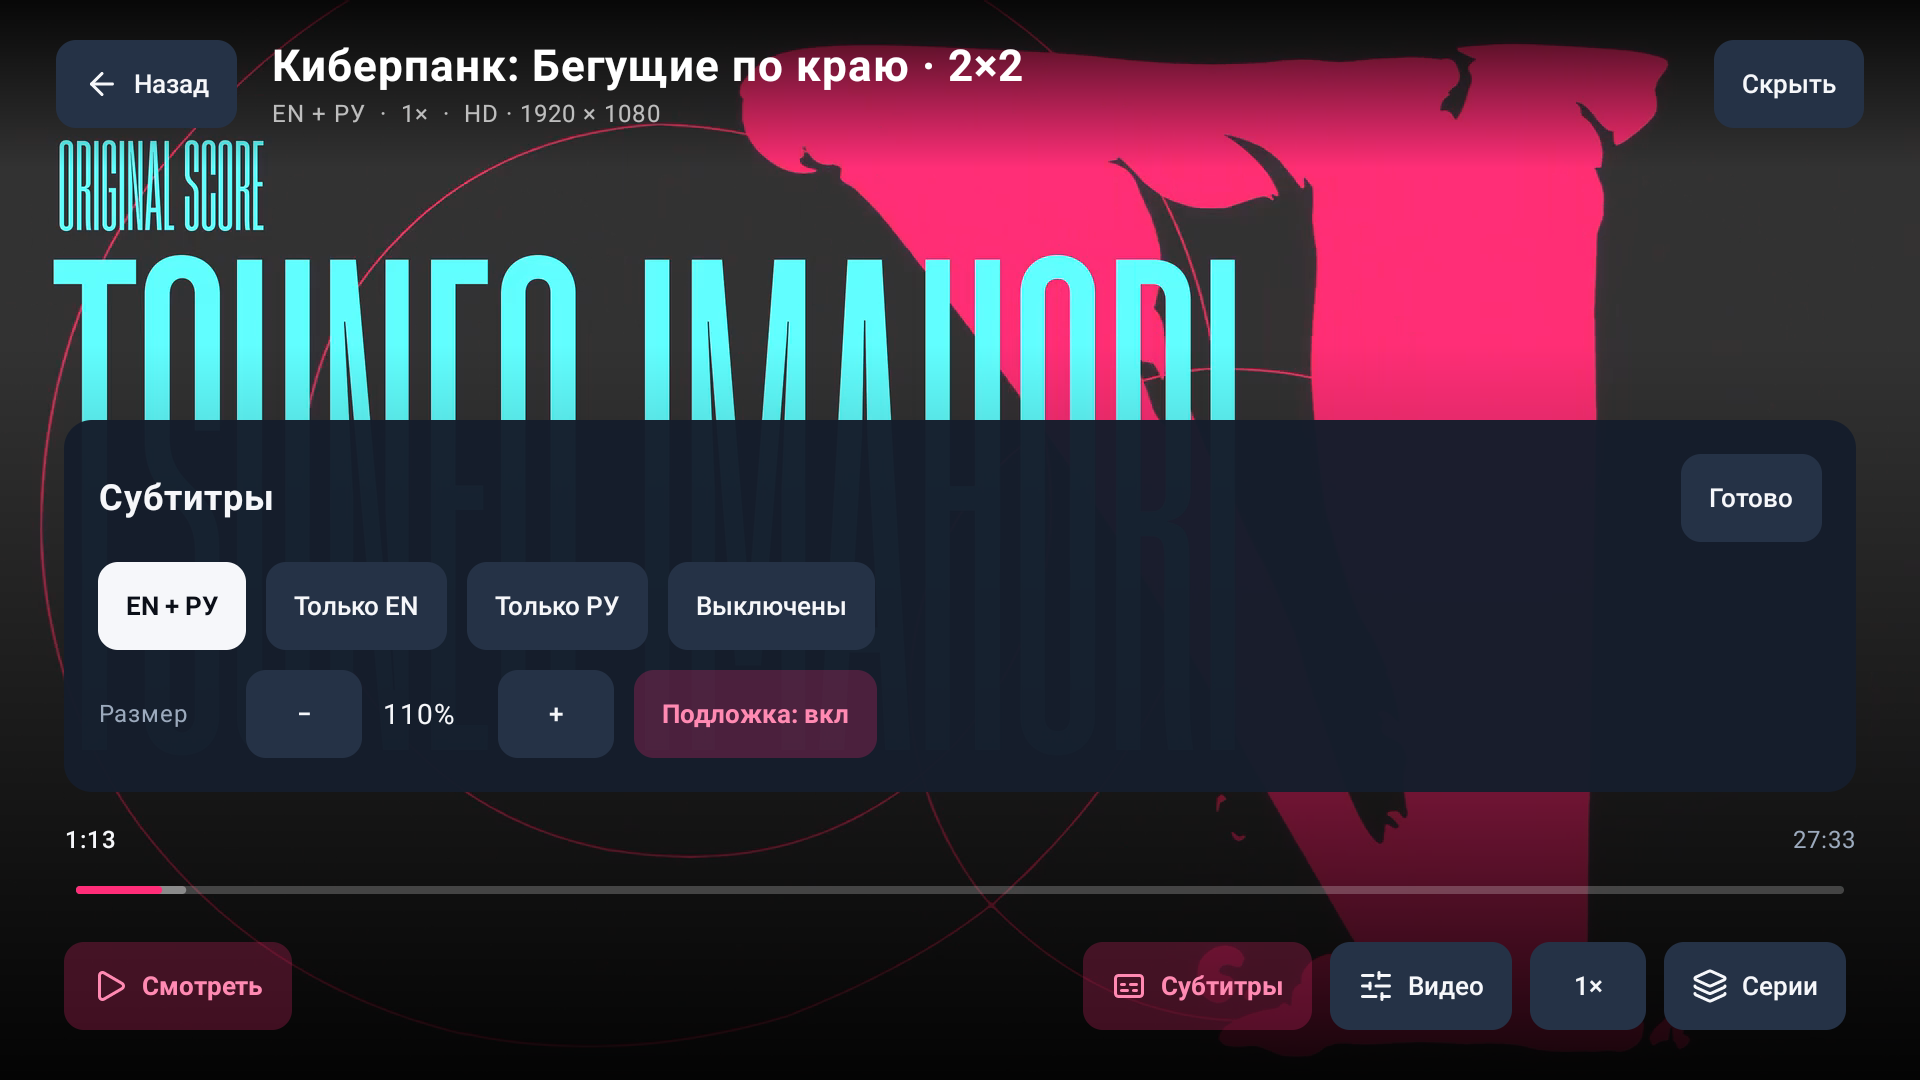
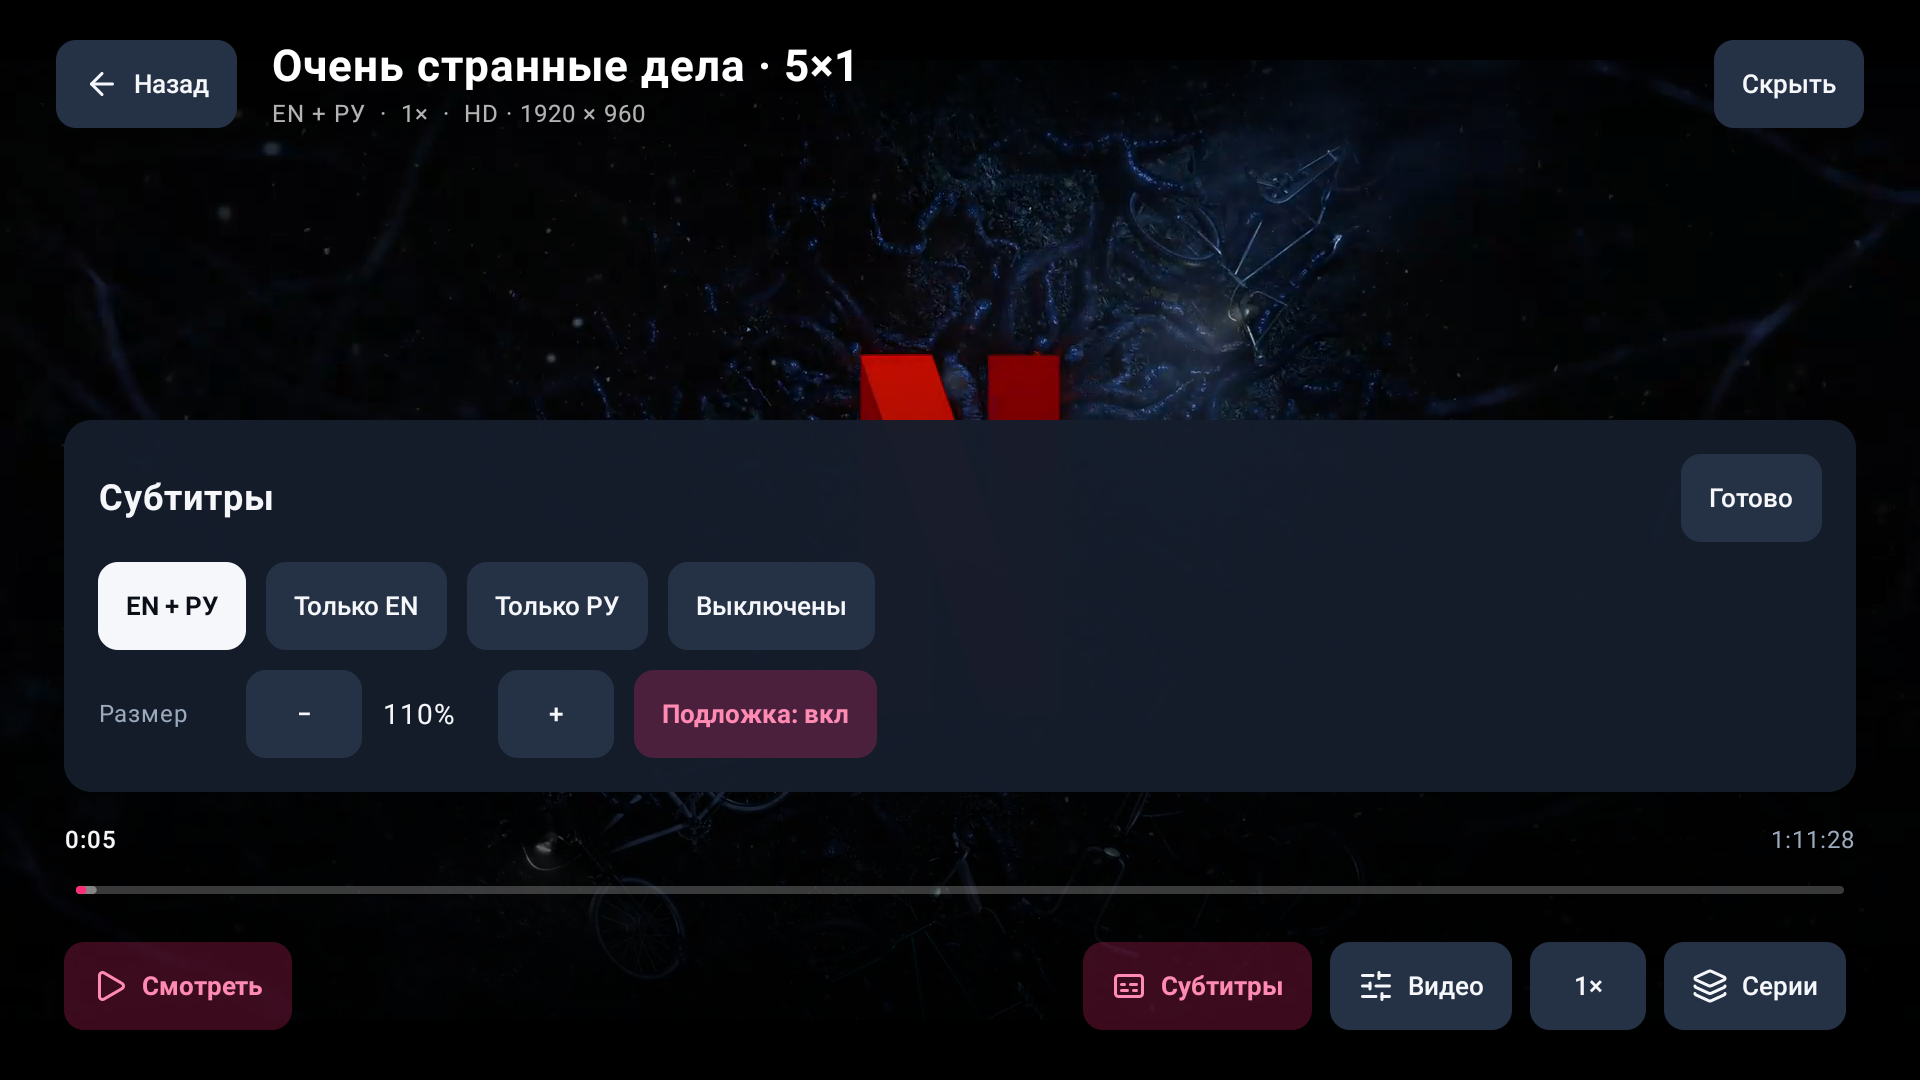
docs: show Stranger Things season 5 in player screenshots

diff --git a/README.md b/README.md
@@ -43,19 +43,19 @@
 
 ### Субтитры, которые можно настроить под себя
 
-<img src="docs/screenshots/subtitles.png" alt="Настройки субтитров 2SUB TV: EN + RU, отдельные языки, размер и подложка" width="100%">
+<img src="docs/screenshots/subtitles.png" alt="Очень странные дела, сезон 5, в 2SUB TV: настройки EN + RU, отдельных языков, размера и подложки субтитров" width="100%">
 
 ### Выбрать нужный момент с пульта
 
 Выберите таймлайн стрелками ↑/↓. Нажимайте ←/→ для шага на 10 секунд или удерживайте стрелку для ускорения. **OK** переводит к выбранному моменту, **Назад** отменяет выбор.
 
-<img src="docs/screenshots/timeline.png" alt="Таймлайн 2SUB TV: кадр предпросмотра и время над выбранной позицией" width="100%">
+<img src="docs/screenshots/timeline.png" alt="Очень странные дела, сезон 5, в 2SUB TV: кадр предпросмотра и время над выбранной позицией таймлайна" width="100%">
 
 ### Пропустить заставку
 
 Когда у серии доступен пропуск, над таймлайном появляется отдельная кнопка. Её можно выбрать стрелками и нажать **OK**.
 
-<img src="docs/screenshots/intro.png" alt="Кнопка Пропустить заставку с фокусом пульта над таймлайном 2SUB TV" width="100%">
+<img src="docs/screenshots/intro.png" alt="Очень странные дела, сезон 5, в 2SUB TV: кнопка Пропустить заставку с фокусом пульта над таймлайном" width="100%">
 
 <table>
 <tr>
